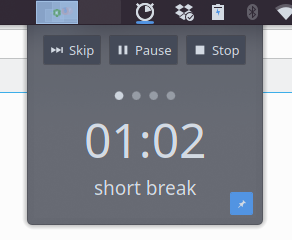
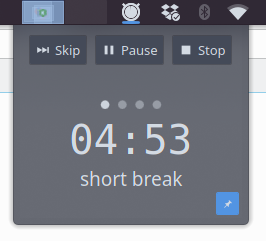
monospace font, screen

diff --git a/package/contents/ui/main.qml b/package/contents/ui/main.qml
@@ -211,7 +211,7 @@ Item {
                     text: formatNumberLength(min,
                                              2) + ":" + formatNumberLength(sec,
                                                                            2)
-                    font.pointSize: fullRoot.width / 8
+                    font.pointSize: fullRoot.width / 7
                     font.family: 'monospace'
                     anchors.horizontalCenter: parent.horizontalCenter
 
